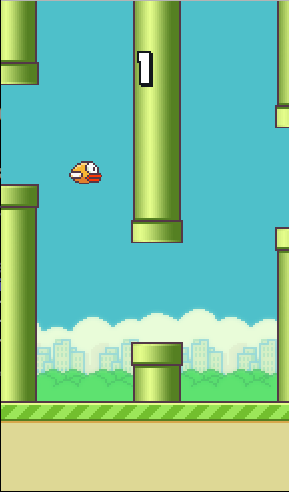
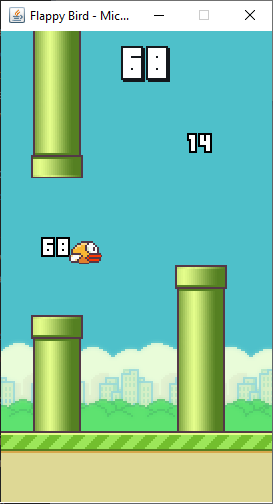
dark enabled
background can be switched to night or dark

diff --git a/src/Data.java b/src/Data.java
@@ -16,14 +16,15 @@ public abstract class Data{
 
 		public static BufferedImage fullImage = null;
 
-		public static GImage background, ground,
+		public static GImage ground,
 					     birdFlat, birdUp, birdDown, birdDead,
 					     getReady, gameOver, instructions, scoreboard, replayButton,
 					     bronzeMedal, silverMedal, goldMedal, platinumMedal, new_;
 
 		public static GImage[] pipeTop = new  GImage[4], pipeBottom = new GImage[4],
 				medNums = new  GImage[10], bigNums = new GImage[10],  
-				scoreDigits = new GImage[10], scoreBoardDigits = new GImage[20];
+				scoreDigits = new GImage[10], scoreBoardDigits = new GImage[20],
+				background = new GImage[2];
 				
 		public static GImage[][] pipeDigits = new GImage[4][10];
 	    
@@ -43,7 +44,8 @@ public abstract class Data{
 			catch (IOException e) {	e.printStackTrace(); }
 			
 			// Background
-			Data.background = makeImage(fullImage, 0, 0, 288, 512);
+			Data.background[0] = makeImage(fullImage, 0, 0, 288, 512);
+			Data.background[1] = makeImage(fullImage, 292, 0, 580, 512);
 
 			// Pipes
 			for(int i = 0; i < 4; i++){

diff --git a/src/FlappyBird.java b/src/FlappyBird.java
@@ -21,6 +21,7 @@ public class FlappyBird extends GraphicsProgram {
 
 	static int currentMode = 0; // 0 = Get Ready, 1 = Playing, 2 = Falling, 3 = Game Over
 	static int score = 0;
+	boolean isNight = true;
 
 	// award for the space between pipes
 	int[] pipeSpaceAward = {0,0,0,0};
@@ -52,7 +53,7 @@ public class FlappyBird extends GraphicsProgram {
 		resetPipes();
 
 		// Adds starting images to screen
-		add(Data.background);
+		add(Data.background[isNight ? 1 : 0]);
 		for (int i = 0; i < 4; i++) {
 			add(Data.pipeTop[i]);
 			add(Data.pipeBottom[i]);
